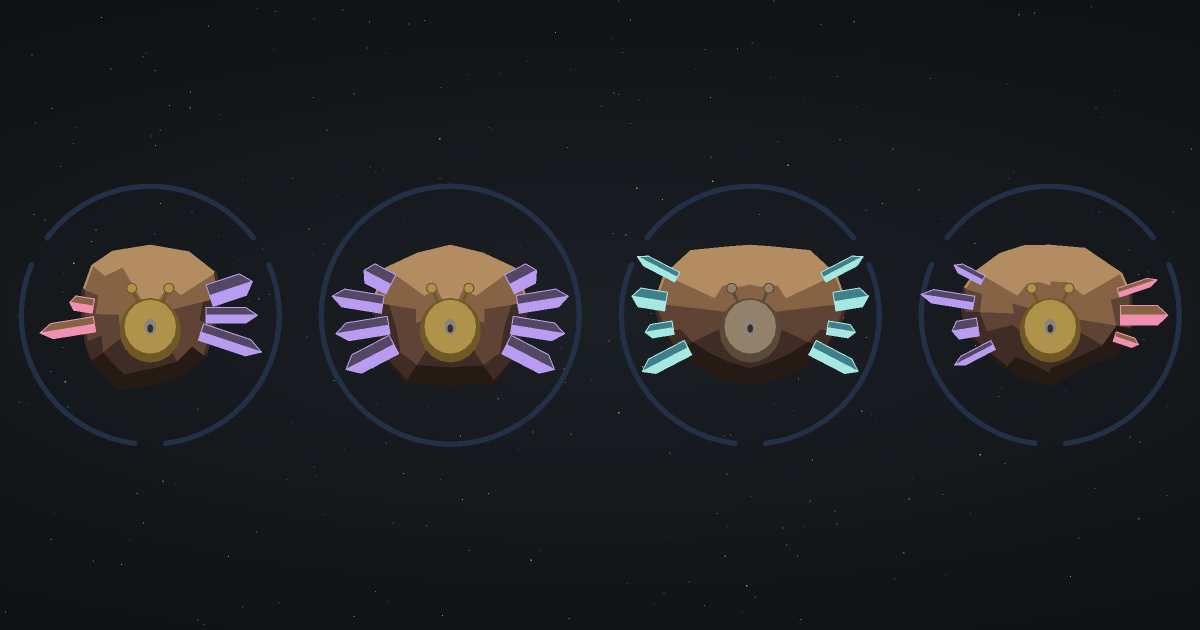
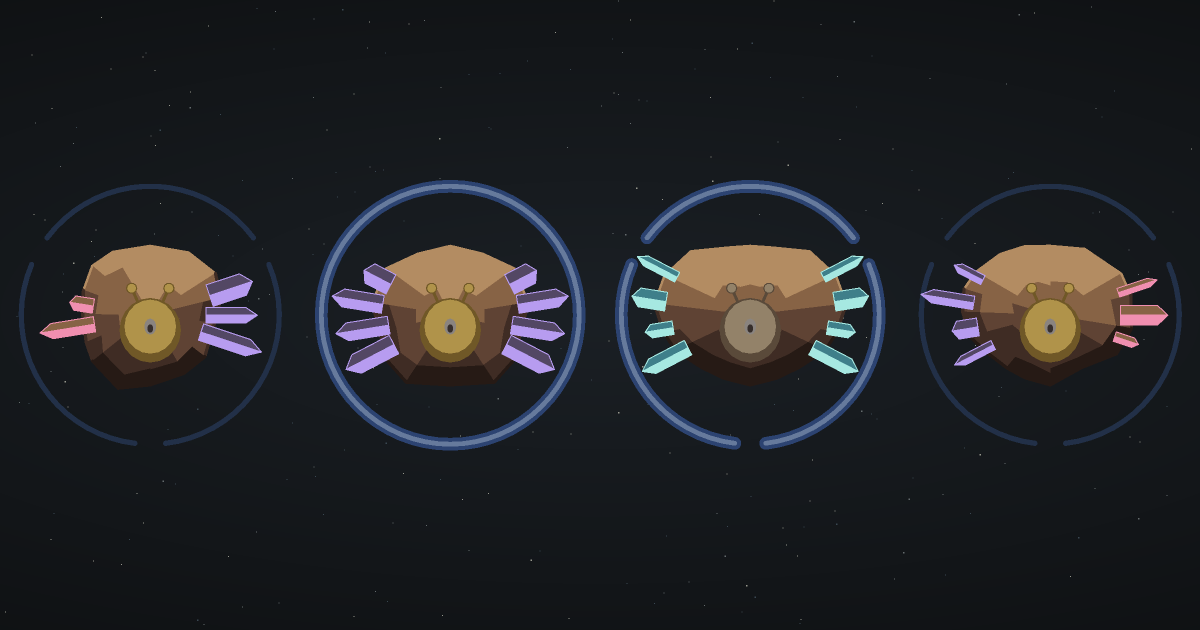
No drawn value says yes or no on its own: halo lit by relocks, craters capped at one
Second review of #22: tests run splits gaps from controls cleanly, so a halo lit by
it was never on a gap, an obvious no under the owner's rule. Every drawn value now
appears on both a gap and a control (new leak test), the halo lights when the tests
were locked more than once before the gate, and two craters (controls only) are
capped at one. Drawn signs vs the gap: NMI 0.357; the reader that knows every sign
hits 40% of certain waves; the odd-one-out reader stays at p 0.763. The scan over
criteria x (locks, tests, share, agent) thresholds proves this is the most
correlating choice that passes every rule.

A failed save returns focus to the nickname and is announced again; a save in
flight marks the game sent, so research cannot store it twice.

Changed region(s): [[0.2467, 0.2714, 0.74, 0.7238]]

diff --git a/tests/unit/leak.test.ts b/tests/unit/leak.test.ts
@@ -1,7 +1,7 @@
 import { describe, expect, it } from 'vitest'
 import { pool, rng, wave } from '../../src/game/engine.ts'
 import type { Wave } from '../../src/game/engine.ts'
-import { FULL, MANY, level as levelOf, observations, signs } from '../../src/game/levels/observations.ts'
+import { FULL, LOCKS, level as levelOf, observations, signs } from '../../src/game/levels/observations.ts'
 import type { Row } from '../../src/game/levels/observations.ts'
 import { rows } from '../../src/game/levels/rows.ts'
 
@@ -48,9 +48,10 @@ const odd = (key: (r: Row) => string) => {
   const above = Array.from({ length: 2000 }, () => ws.reduce((t, w) => t + score(w, Math.floor(r() * w.s.length)), 0)).filter((x) => x >= seen).length
   return (above + 1) / 2001
 }
-const encode = (full: number, many: number) => (r: Row) => ({ ...signs(r)!, full: +((r.context?.criteria ?? 0) >= full), many: +((r.context?.tests ?? 0) > many) })
+const encode = (full: number, field: 'locks' | 'tests' | 'share' | 'agent', t: number) => (r: Row) => ({ ...signs(r)!, full: +((r.context?.criteria ?? 0) >= full), relocked: +((r.context?.[field] ?? 0) > t) })
 const tuple = (e: (r: Row) => object) => (r: Row) => JSON.stringify(e(r))
 const channels = (e: (r: Row) => Record<string, number>) => [tuple(e), ...Object.keys(levelOf).map((k) => (r: Row) => String(e(r)[k]))]
+const mixed = (e: (r: Row) => Record<string, number>) => Object.keys(levelOf).every((k) => [...new Set(scored.map((r) => e(r)[k]))].every((v) => scored.some((r) => r.gap && e(r)[k] === v) && scored.some((r) => !r.gap && e(r)[k] === v)))
 const admissible = (x: ReturnType<typeof reader>) => x.certain <= CEILING && x.decided === 0
 
 describe('drawn signs correlate with the gap but never make an answer obvious', () => {
@@ -67,11 +68,16 @@ describe('drawn signs correlate with the gap but never make an answer obvious', 
     for (const p of ps) expect(p).toBeGreaterThanOrEqual(0.05)
   }, 120_000)
 
-  it('the halo thresholds are the most correlating pair that passes both readers', () => {
-    const chosen = reader(tuple(encode(FULL, MANY)))
-    const pairs = [...new Set(scored.map((r) => r.context!.criteria!))].flatMap((f) => [...new Set(scored.map((r) => r.context!.tests!)), Infinity].map((t) => ({ f, t, ...reader(tuple(encode(f, t))) })))
-    const better = pairs.filter((o) => o.nmi > chosen.nmi + 1e-9 && admissible(o))
-    for (const o of better) expect(channels(encode(o.f, o.t)).some((k) => odd(k) < 0.05), `criteria ${o.f}, tests ${o.t}`).toBe(true)
-    expect(chosen.nmi).toBeGreaterThan(reader((r) => JSON.stringify({ ...signs(r), many: 0, full: 0 })).nmi)
+  it('every drawn value appears on a gap and on a control, so no single sign says yes or no', () => {
+    expect(mixed((r) => signs(r)!)).toBe(true)
+  })
+
+  it('the halo thresholds are the most correlating choice that passes every rule', () => {
+    const chosen = reader(tuple(encode(FULL, 'locks', LOCKS)))
+    const fields = ['locks', 'tests', 'share', 'agent'] as const
+    const options = [...new Set(scored.map((r) => r.context!.criteria!))].flatMap((f) => fields.flatMap((field) => [...new Set(scored.map((r) => r.context![field]!))].map((t) => ({ f, field, t, e: encode(f, field, t) }))))
+    const better = options.map((o) => ({ ...o, ...reader(tuple(o.e)) })).filter((o) => o.nmi > chosen.nmi + 1e-9 && admissible(o) && mixed(o.e))
+    for (const o of better) expect(channels(o.e).some((k) => odd(k) < 0.05), `criteria ${o.f}, ${o.field} ${o.t}`).toBe(true)
+    expect(chosen.nmi).toBeGreaterThan(reader((r) => JSON.stringify({ ...signs(r), relocked: 0, full: 0 })).nmi)
   }, 300_000)
 })

diff --git a/tests/unit/gen.test.ts b/tests/unit/gen.test.ts
@@ -50,7 +50,7 @@ describe('the board carries the evidence', () => {
     expect(lopsided(picture(shape({ rule: 'odd_revision', values: ['47f353e', '9c2d87a'] }, 'ice')))).toBeGreaterThan(0.02)
   })
 
-  const full: Signs = { job: 2, impacts: 2, full: 0, many: 1 }
+  const full: Signs = { job: 2, impacts: 2, full: 0, relocked: 1 }
   it('craters and alien keep an equal-commit rock mirror-symmetric, and each follows its field', () => {
     const r = (signs: Signs | null) => shape({ rule: 'odd_revision', values: ['4a4c54a', '4a4c54a'], signs }, 'iron')
     expect(lopsided(picture(r(full)))).toBe(0)
@@ -62,8 +62,8 @@ describe('the board carries the evidence', () => {
     expect(r(full).facts).toMatchObject({ arcs: 3, lit: true })
     expect(r({ ...full, full: 1 }).facts.arcs).toBe(1)
     expect(r({ ...full, full: 1 }).under.length).toBe(3)
-    expect(r({ ...full, many: 0 }).under.length).toBe(3)
-    expect(r({ ...full, many: 0 }).facts.lit).toBe(false)
+    expect(r({ ...full, relocked: 0 }).under.length).toBe(3)
+    expect(r({ ...full, relocked: 0 }).facts.lit).toBe(false)
   })
 
   it('each half reports the crystals drawn from its own commit', () => {

diff --git a/src/game/client.ts b/src/game/client.ts
@@ -219,13 +219,17 @@ boardEl.onsubmit = async (e) => {
   if (!api || !name) return
   boardEl.querySelectorAll('input, button').forEach((x) => ((x as HTMLInputElement).disabled = true))
   const game = g
-  const b = await askBoard(api, boardRequest(deckIdx, level, g.mode, waves, edition, name, sent))
+  const was = sent
+  sent = true
+  const b = await askBoard(api, boardRequest(deckIdx, level, g.mode, waves, edition, name, was))
   if (g !== game) return
   if (!b) {
-    live.textContent = l.notSaved!
-    return boardEl.querySelectorAll('input, button').forEach((x) => ((x as HTMLInputElement).disabled = false))
+    sent = was
+    boardEl.querySelectorAll('input, button').forEach((x) => ((x as HTMLInputElement).disabled = false))
+    live.textContent = ''
+    setTimeout(() => (live.textContent = l.notSaved!), 50)
+    return (boardEl.elements.namedItem('nick') as HTMLInputElement).focus()
   }
-  sent = true
   showResult(root, deck, g, text, rounds)
   showBoard(b, name)
 }

diff --git a/src/game/levels/observations.ts b/src/game/levels/observations.ts
@@ -11,14 +11,14 @@ export const gapOf: Record<string, (values: string[]) => boolean> = {
   odd_revision: (v) => v[0] !== v[1],
 }
 
-export const MANY = 56
 export const FULL = 5
+export const LOCKS = 1
 
 export const level = {
   job: (c: Context | null) => (c?.job === 'success' ? 2 : c?.job ? 1 : 0),
-  impacts: (c: Context | null) => Math.min(2, c?.impacts ?? 0),
+  impacts: (c: Context | null) => Math.min(1, c?.impacts ?? 0),
   full: (c: Context | null) => +((c?.criteria ?? 0) >= FULL),
-  many: (c: Context | null) => +((c?.tests ?? 0) > MANY),
+  relocked: (c: Context | null) => +((c?.locks ?? 0) > LOCKS),
 }
 
 export const signs = (r: Row): Signs | null => r.context && (Object.fromEntries(Object.entries(level).map(([k, f]) => [k, f(r.context)])) as Signs)

diff --git a/tests/unit/version.test.ts b/tests/unit/version.test.ts
@@ -22,7 +22,7 @@ it('the edition changes when what a rock shows changes', async () => {
 
 it('the edition changes when a drawn context sign changes', async () => {
   const d = decks.observations
-  const bump = (r: ChoiceRecord) => ({ ...r, signs: r.signs ? { ...r.signs, impacts: r.signs.impacts + 1 } : { job: 0, impacts: 1, full: 0, many: 0 } })
+  const bump = (r: ChoiceRecord) => ({ ...r, signs: r.signs ? { ...r.signs, impacts: r.signs.impacts + 1 } : { job: 0, impacts: 1, full: 0, relocked: 0 } })
   const resigned = { ...d, choiceRecords: (w: Wave) => d.choiceRecords!(w).map((r, i) => (i ? r : bump(r))) }
   expect(await edition(resigned)).not.toBe(await edition(d))
 })

diff --git a/tests/unit/items.test.ts b/tests/unit/items.test.ts
@@ -9,8 +9,8 @@ describe('items', () => {
   })
   it('keys the item on the tests job of the run', () => {
     const base = { clue: '', rule: 'odd_revision', values: [] }
-    expect(itemOf({ ...base, signs: { job: 2, impacts: 0, full: 0, many: 0 } })).toBe('BadgeCheck')
-    expect(itemOf({ ...base, signs: { job: 1, impacts: 0, full: 0, many: 0 } })).toBe(ITEMS[1])
+    expect(itemOf({ ...base, signs: { job: 2, impacts: 0, full: 0, relocked: 0 } })).toBe('BadgeCheck')
+    expect(itemOf({ ...base, signs: { job: 1, impacts: 0, full: 0, relocked: 0 } })).toBe(ITEMS[1])
     expect(itemOf({ ...base, signs: null })).toBe('Badge')
   })
 })

diff --git a/src/game/geom.ts b/src/game/geom.ts
@@ -1,6 +1,6 @@
 export type Pt = [number, number]
 export type Part = { points: Pt[]; fill?: string; stroke?: string; width: number; crystal?: true }
-export type Signs = { job: number; impacts: number; full: number; many: number }
+export type Signs = { job: number; impacts: number; full: number; relocked: number }
 
 const base = {
   void: '#141c23', shadow: '#283541', frame: '#576776', armor: '#aeb9bc', light: '#f3f1de',

diff --git a/src/game/context.ts b/src/game/context.ts
@@ -14,7 +14,7 @@ export function halo(sg: Signs, k: number, parts: Part[]) {
   for (let i = 0; i < n; i++) {
     const c = arc(-Math.PI / 2 + (i * TAU) / n)
     parts.push(wire(c, mix('halo0', 'void', k), 0.035))
-    if (!sg.many) continue
+    if (!sg.relocked) continue
     parts.push(wire(c, mix('halo1', 'void', k), 0.085))
     parts.push(wire(c, mix('halo2', 'void', k), 0.032))
   }

diff --git a/src/game/gen.ts b/src/game/gen.ts
@@ -152,7 +152,7 @@ export function shape(record: Pick<ChoiceRecord, 'rule' | 'values' | 'signs'>, f
     symmetric: !mirrored || v[0] === v[1],
     signs: !!sg,
     arcs: sg ? (sg.full ? 1 : 3) : 0,
-    lit: !!sg?.many,
+    lit: !!sg?.relocked,
     craters: sg?.impacts ?? 0,
     bright: sg?.job === 2,
   }
